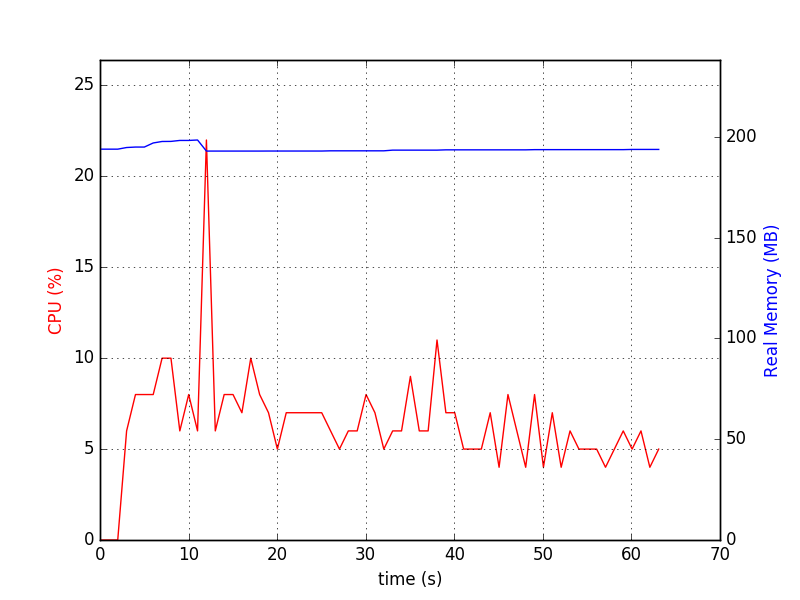
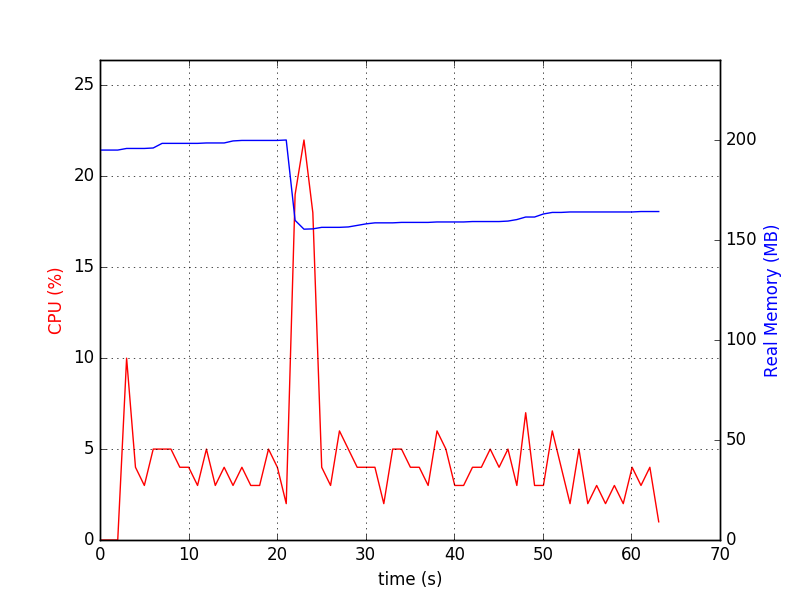
Update profiling info

diff --git a/README.md b/README.md
@@ -92,33 +92,33 @@ Document Path:          /songs?genre=foo&access_token=123
 Document Length:        41 bytes
 
 Concurrency Level:      10
-Time taken for tests:   13.739 seconds
+Time taken for tests:   14.197 seconds
 Complete requests:      50000
 Failed requests:        0
 Total transferred:      12400000 bytes
 HTML transferred:       2050000 bytes
-Requests per second:    3639.18 [#/sec] (mean)
-Time per request:       2.748 [ms] (mean)
-Time per request:       0.275 [ms] (mean, across all concurrent requests)
-Transfer rate:          881.36 [Kbytes/sec] received
+Requests per second:    3521.78 [#/sec] (mean)
+Time per request:       2.839 [ms] (mean)
+Time per request:       0.284 [ms] (mean, across all concurrent requests)
+Transfer rate:          852.93 [Kbytes/sec] received
 
 Connection Times (ms)
               min  mean[+/-sd] median   max
-Connect:        0    0   0.1      0       8
-Processing:     0    3   1.4      2     212
-Waiting:        0    2   1.3      2     210
-Total:          1    3   1.4      2     212
+Connect:        0    0   0.0      0       1
+Processing:     1    3   0.9      3      50
+Waiting:        1    2   0.8      2      49
+Total:          1    3   0.9      3      50
 
 Percentage of the requests served within a certain time (ms)
-  50%      2
+  50%      3
   66%      3
   75%      3
   80%      3
-  90%      3
+  90%      4
   95%      4
   98%      5
   99%      6
- 100%    212 (longest request)
+ 100%     50 (longest request)
 ```
 
 ## CPU and memory usage
@@ -223,39 +223,37 @@ Percentage of the requests served within a certain time (ms)
 
 ### rework_webapi_parser
 ```
-Document Path:          /songs?genre=foo&access_token=123
-Document Length:        760 bytes
+Document Path:          /v1/songs?genre=foo&access_token=123
+Document Length:        0 bytes
 
 Concurrency Level:      10
-Time taken for tests:   50.858 seconds
+Time taken for tests:   19.551 seconds
 Complete requests:      50000
-Failed requests:        49749
-   (Connect: 0, Receive: 0, Length: 49749, Exceptions: 0)
-Non-2xx responses:      50000
-Total transferred:      51736446 bytes
-HTML transferred:       40686446 bytes
-Requests per second:    983.13 [#/sec] (mean)
-Time per request:       10.172 [ms] (mean)
-Time per request:       1.017 [ms] (mean, across all concurrent requests)
-Transfer rate:          993.43 [Kbytes/sec] received
+Failed requests:        0
+Total transferred:      3750000 bytes
+HTML transferred:       0 bytes
+Requests per second:    2557.47 [#/sec] (mean)
+Time per request:       3.910 [ms] (mean)
+Time per request:       0.391 [ms] (mean, across all concurrent requests)
+Transfer rate:          187.31 [Kbytes/sec] received
 
 Connection Times (ms)
               min  mean[+/-sd] median   max
-Connect:        0    0   0.0      0       1
-Processing:     4   10   2.6      9      58
-Waiting:        4    9   2.5      8      57
-Total:          4   10   2.6      9      58
+Connect:        0    0   0.1      0       2
+Processing:     1    4   2.5      3     211
+Waiting:        1    3   2.4      3     211
+Total:          1    4   2.5      3     211
 
 Percentage of the requests served within a certain time (ms)
-  50%      9
-  66%     10
-  75%     11
-  80%     12
-  90%     13
-  95%     14
-  98%     18
-  99%     20
- 100%     58 (longest request)
+  50%      3
+  66%      4
+  75%      4
+  80%      4
+  90%      5
+  95%      6
+  98%      8
+  99%     10
+ 100%    211 (longest request)
 ```
 
 ## CPU and memory usage
